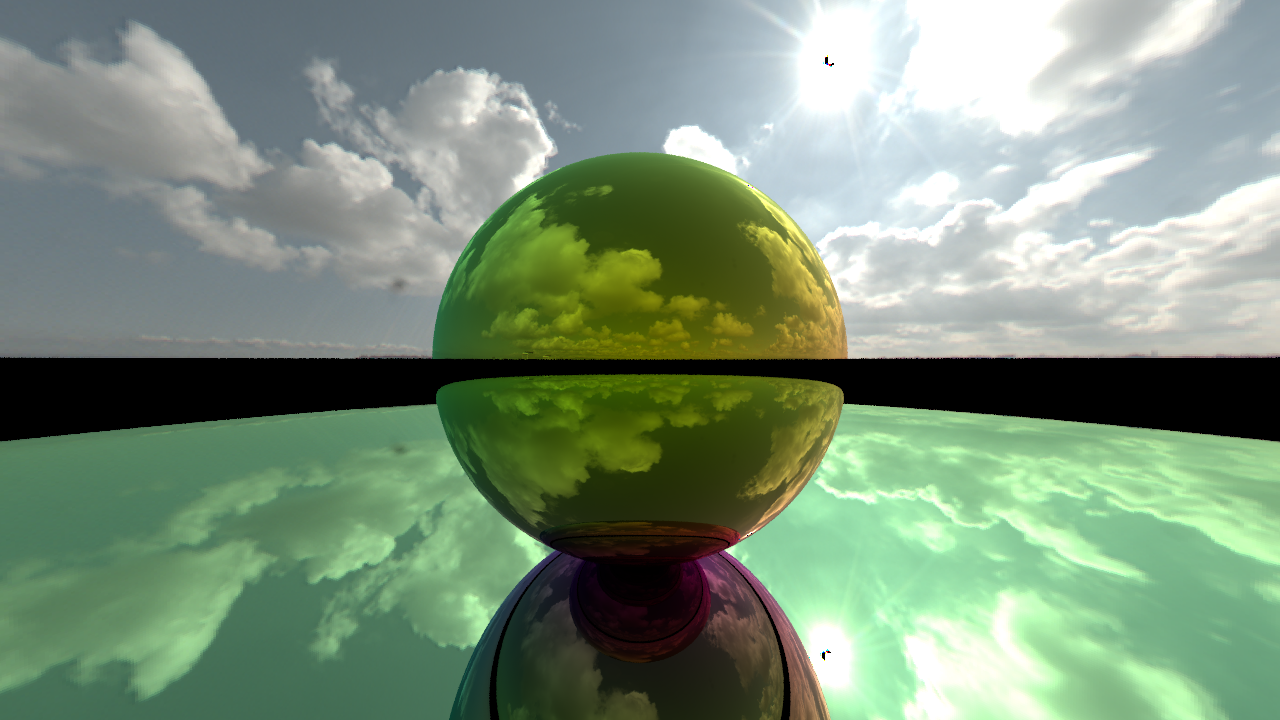
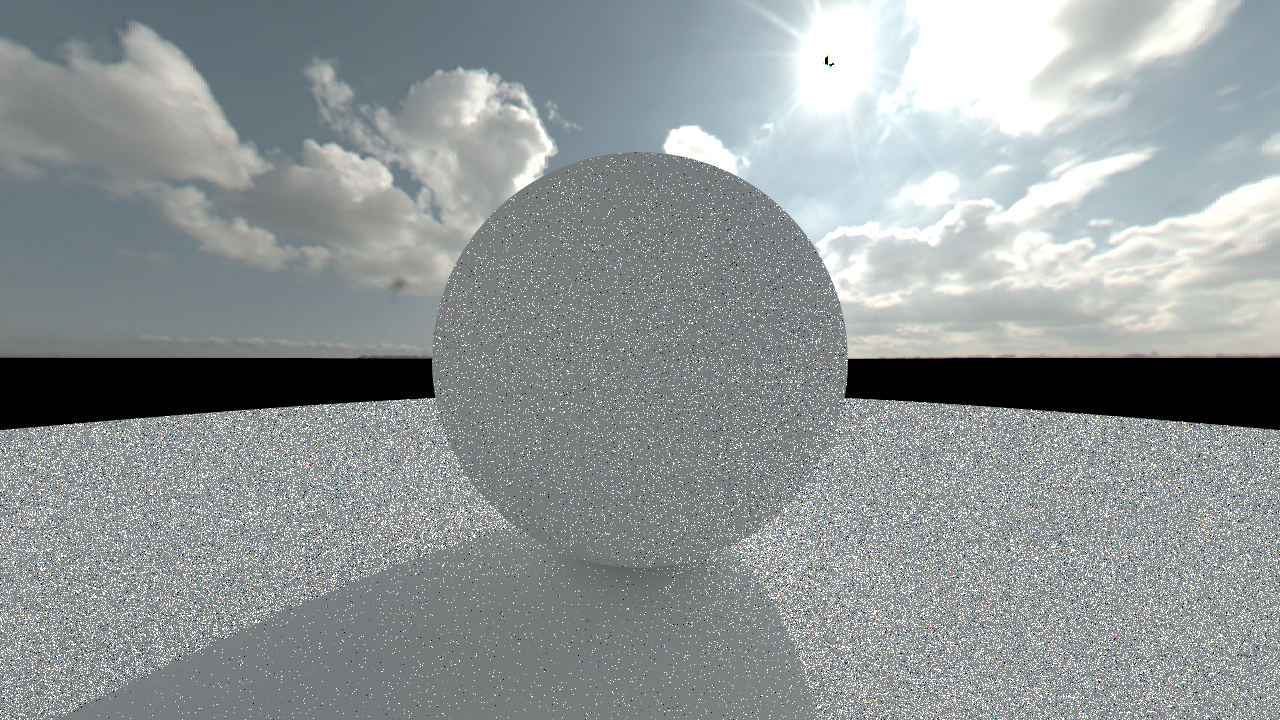
Implemented diffuse. Added recursion depth limit

diff --git a/material.h b/material.h
@@ -9,7 +9,7 @@
 struct material
 {
 	virtual ~material() {}
-	virtual fRGBA sample(const ray_intersection& ri) const = 0;
+	virtual fRGBA sample(const scene& sc, const ray_intersection& ri) const = 0;
 };
 
 struct debug_normal_material : material
@@ -18,10 +18,22 @@ struct debug_normal_material : material
 	{
 	}
 
-	virtual fRGBA sample(const ray_intersection& ri) const
+	virtual fRGBA sample(const scene& sc, const ray_intersection& ri) const
 	{
 		return fRGBA((float)(ri.normal[0] * 0.5 + 0.5), (float)(ri.normal[1] * 0.5 + 0.5), (float)(ri.normal[2] * 0.5 + 0.5));
 	}
+};
+
+struct basic_colour_material : material
+{
+	fRGBA diffuse_colour;
+
+	basic_colour_material(fRGBA diffuse_colour)
+		: diffuse_colour(std::move(diffuse_colour))
+	{
+	}
+
+	virtual fRGBA sample(const scene& sc, const ray_intersection& ri) const;
 };
 
 struct basic_texture_material : material
@@ -33,8 +45,63 @@ struct basic_texture_material : material
 	{
 	}
 
-	virtual fRGBA sample(const ray_intersection& ri) const
-	{
-		return tex->sample(ri.texcoord);
-	}
+	virtual fRGBA sample(const scene& sc, const ray_intersection& ri) const;
 };
+
+struct basic_sky_texture_material : material
+{
+	std::shared_ptr<texture> tex;
+
+	basic_sky_texture_material(std::shared_ptr<texture> tex)
+		: tex(std::move(tex))
+	{
+	}
+
+	virtual fRGBA sample(const scene& sc, const ray_intersection& ri) const;
+};
+
+#include "scene.h"
+
+fRGBA basic_colour_material::sample(const scene& sc, const ray_intersection& ri) const
+{
+	//Vec3Dd R = ri.direction - 2 * dot_product(ri.direction, ri.normal) * ri.normal;
+	//Vec3Dd R = random_on_hemisphere(ri.normal);
+	Vec3Dd R = ri.normal + random_unit_vector();
+	ray r2 =
+	{
+		.origin = ri.location + 0.001 * R,
+		.direction = R,
+		.remaining_depth = ri.r.remaining_depth - 1
+	};
+	return diffuse_colour * sc.ray_colour(r2);
+}
+
+fRGBA basic_texture_material::sample(const scene& sc, const ray_intersection& ri) const
+{
+	auto C = tex->sample(ri.texcoord);
+	//Vec3Dd R = ri.direction - 2 * dot_product(ri.direction, ri.normal) * ri.normal;
+	//Vec3Dd R = random_on_hemisphere(ri.normal);
+	Vec3Dd R = ri.normal + random_unit_vector();
+	ray r2 =
+	{
+		.origin = ri.location + 0.001 * R,
+		.direction = R,
+		.remaining_depth = ri.r.remaining_depth - 1
+	};
+	return C * sc.ray_colour(r2);
+}
+
+fRGBA basic_sky_texture_material::sample(const scene& sc, const ray_intersection& ri) const
+{
+	Vec3Dd unit_direction = normalize_vector(ri.r.direction);
+
+	//float y = 0.5f * ((float)unit_direction.get_y() + 1.0f);
+	//return Lerp(fRGBA(1.0f, 1.0f, 1.0f), fRGBA(0.5f, 0.7f, 1.0f), y);
+
+	double yaw = atan2(unit_direction.get_z(), unit_direction.get_x()) * (std::numbers::inv_pi / 2) + 0.5;
+	double pitch = asin(unit_direction.get_y()) * std::numbers::inv_pi * 2;
+	Vec2d texcoord = { yaw, 0.5 - pitch * 0.5 };
+
+	auto C = tex->sample(texcoord);
+	return C;
+}

diff --git a/common/math/random.h b/common/math/random.h
@@ -2,9 +2,64 @@
 
 #include <random>
 #include "common/pcg/pcg_random.hpp"
+#include "common/vectorclass/vector3d.h"
 
-inline double random_double() {
+inline auto& rand_generator()
+{
+    static thread_local pcg64_fast generator;
+    return generator;
+}
+
+inline double random_double(double min, double max)
+{
     static std::uniform_real_distribution<double> distribution(0.0, 1.0);
-    static pcg64_fast generator;
-    return distribution(generator);
+    return distribution(rand_generator(), std::uniform_real_distribution<double>::param_type(min, max));
+}
+
+inline double random_double()
+{
+    return random_double(0.0, 1.0);
+}
+
+static Vec3Dd random3d(double min, double max)
+{
+    return Vec3Dd(random_double(min, max), random_double(min, max), random_double(min, max));
+}
+
+static Vec3Dd random3d()
+{
+    return random3d(0.0, 1.0);
+}
+
+inline double gaussian_double()
+{
+    static std::normal_distribution<double> distribution;
+    return distribution(rand_generator());
+}
+
+static Vec3Dd gaussian_3d()
+{
+    return Vec3Dd(gaussian_double(), gaussian_double(), gaussian_double());
+}
+
+inline Vec3Dd random_unit_vector()
+{
+    do
+    {
+        auto p = gaussian_3d();
+        [[likely]]
+        if (p != Vec3Dd(0, 0, 0))
+        {
+            return normalize_vector(p);
+        }
+    } while (true);
+}
+
+inline Vec3Dd random_on_hemisphere(const Vec3Dd& normal)
+{
+    Vec3Dd on_unit_sphere = random_unit_vector();
+    if (dot_product(on_unit_sphere, normal) > 0.0)
+        return on_unit_sphere;
+    else
+        return -on_unit_sphere;
 }

diff --git a/scene.h b/scene.h
@@ -3,24 +3,45 @@
 #include <vector>
 #include <memory>
 #include "traceable.h"
-#include "material.h"
 
 class scene
 {
 public:
-    std::optional<ray_intersection> ray_intersect(const ray& r) const
-    {
-        std::optional<ray_intersection> result;
-        for (auto&& object : objects)
-        {
-            auto temp = object->ray_intersect(r);
-            if (temp.has_value() && (!result.has_value() || temp->t < result->t))
-                result = temp;
-        }
-        return result;
-    }
+	std::optional<ray_intersection> ray_intersect(const ray& r) const
+	{
+		std::optional<ray_intersection> result;
+		for (auto&& object : objects)
+		{
+			auto temp = object->ray_intersect(r);
+			if (temp.has_value() && (!result.has_value() || temp->t < result->t))
+				result = temp;
+		}
+		return result;
+	}
+
+	fRGBA ray_colour(const ray& r) const;
 
 public:
-    std::vector<std::shared_ptr<traceable>> objects;
-    std::shared_ptr<material> sky_material;
+	std::vector<std::shared_ptr<traceable>> objects;
+	std::shared_ptr<material> sky_material;
 };
+
+#include "material.h"
+
+fRGBA scene::ray_colour(const ray& r) const
+{
+	if (r.remaining_depth == 0)
+		return fRGBA(0, 0, 0);
+
+	auto t = ray_intersect(r);
+	return *t.and_then([&, &sc=*this](const ray_intersection& ri) -> std::optional<fRGBA>
+		{
+			Vec3Dd N = ri.normal;
+			fRGBA C = ri.mat->sample(sc, ri);
+			return C;
+		}).or_else([&, &sc = *this]() -> std::optional<fRGBA>
+		{
+			auto sample = sky_material->sample(sc, { .r = r });
+			return sample;
+		});
+}

diff --git a/renderer.h b/renderer.h
@@ -55,7 +55,7 @@ public:
 					auto pixel_center = viewport_upper_left + ((x + random_double()) * pixel_delta_u) + ((y + random_double()) * pixel_delta_v);
 					auto ray_direction = pixel_center - cam.origin;
 					ray r(cam.origin, ray_direction);
-					pixel_colour += ray_colour(sc, r);
+					pixel_colour += sc.ray_colour(r);
 				}
 				pixel_colour /= (float)num_samples;
 
@@ -64,31 +64,5 @@ public:
 		}
 
 		stbi_write_png("output.png", image_width, image_height, 4, image.data(), image.stride(0) * 4);
-	}
-
-private:
-
-	fRGBA ray_colour(const scene& sc, const ray& r)
-	{
-		auto t = sc.ray_intersect(r);
-		return *t.and_then([&](const ray_intersection& ri) -> std::optional<fRGBA>
-			{
-				Vec3Dd N = ri.normal;
-				fRGBA C = ri.mat->sample(ri);
-				Vec3Dd R = r.direction - 2 * dot_product(r.direction, N) * N;
-				return C * ray_colour(sc, { ri.location + 0.001 * R, R });
-			}).or_else([&]() -> std::optional<fRGBA>
-			{
-				Vec3Dd unit_direction = normalize_vector(r.direction);
-
-				//float y = 0.5f * ((float)unit_direction.get_y() + 1.0f);
-				//return Lerp(fRGBA(1.0f, 1.0f, 1.0f), fRGBA(0.5f, 0.7f, 1.0f), y);
-
-				double yaw = atan2(unit_direction.get_z(), unit_direction.get_x()) * (std::numbers::inv_pi / 2) + 0.5;
-				double pitch = asin(unit_direction.get_y()) * std::numbers::inv_pi * 2;
-
-				auto sample = sc.sky_material->sample({ .texcoord = {yaw, 0.5 - pitch * 0.5} });
-				return sample;
-			});
 	}
 };

diff --git a/main.cpp b/main.cpp
@@ -8,9 +8,10 @@
 #include "material.h"
 
 std::shared_ptr debug_normal_mat = std::make_shared<debug_normal_material>();
-std::shared_ptr sky_material = std::make_shared<basic_texture_material>(std::make_shared<texture2d<fRGBA>>("probe_10-00_latlongmap.hdr", false, true));
-std::shared_ptr s = std::make_shared<sphere>(sphere({0,0.5,1}, 0.5, debug_normal_mat));
-std::shared_ptr g = std::make_shared<sphere>(sphere({0, -100, 1}, 100, debug_normal_mat));
+std::shared_ptr grey_mat = std::make_shared<basic_colour_material>(fRGBA(0.9f, 0.9f, 0.9f));
+std::shared_ptr sky_material = std::make_shared<basic_sky_texture_material>(std::make_shared<texture2d<fRGBA>>("probe_10-00_latlongmap.hdr", false, true));
+std::shared_ptr s = std::make_shared<sphere>(sphere({ 0,0.5,1 }, 0.5, grey_mat));
+std::shared_ptr g = std::make_shared<sphere>(sphere({0, -100, 1}, 100, grey_mat));
 scene sc = {.objects = {s, g}, .sky_material = sky_material };
 
 int main()
@@ -20,7 +21,7 @@ int main()
 	renderer render;
 	render.image_width = 1280;
 	render.image_height = 720;
-	render.num_samples = 10;
+	render.num_samples = 10000;
 
 	render.render(cam, sc);
 

diff --git a/ray.h b/ray.h
@@ -15,14 +15,15 @@ struct ray
 
     Vec3Dd origin;
     Vec3Dd direction;
+    int remaining_depth = 100;
 };
 
 struct ray_intersection
 {
     Vec3Dd location;
-    Vec3Dd direction;
     Vec3Dd normal;
     Vec2d texcoord;
-    double t;
     std::shared_ptr<material> mat;
+    ray r;
+    double t;
 };

diff --git a/sphere.h b/sphere.h
@@ -39,8 +39,9 @@ public:
             .location = location,
             .normal = normal,
             .texcoord = Vec2d(normal[0] + 1, normal[1] + 1) * 0.5,
+            .mat = mat,
+            .r = r,
             .t = t,
-            .mat = mat
         };
     }
 
